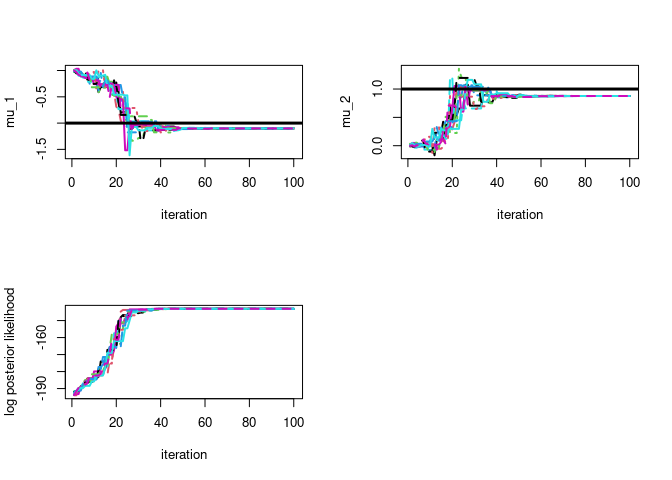
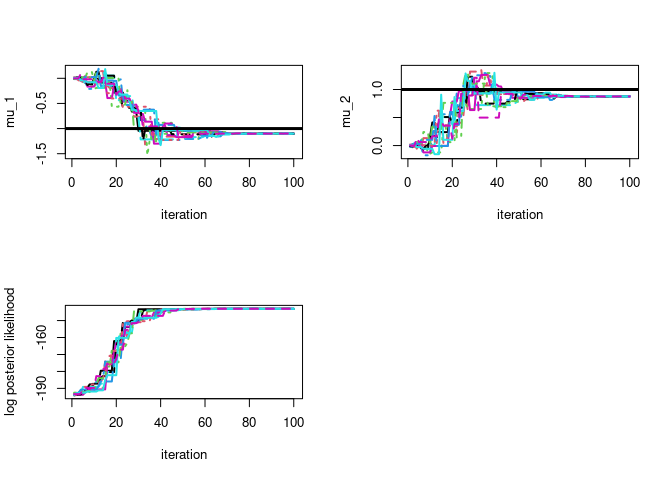
getting ready for CRAN submission

diff --git a/README.md b/README.md
@@ -63,7 +63,9 @@ post <- DEMCMC(LogPostLike=LogPostLikeExample,
                control_params=AlgoParamsDEMCMC(n_params=length(param_names_example),
                                                n_iter=500, 
                                                n_chains=12,
-                                               burnin=100),
+                                               burnin=100,
+                                            parallel_type = 'FORK',
+                                            n_cores_use = 4),
                data=dataExample,
                param_names = param_names_example)
 #> initalizing chains...
@@ -80,6 +82,7 @@ post <- DEMCMC(LogPostLike=LogPostLikeExample,
 #> 11 / 12
 #> 12 / 12
 #> chain initialization complete  :)
+#> initalizing FORK cluser with 4 cores
 #> running DEMCMC
 #> iter 100/500
 #> iter 200/500
@@ -114,32 +117,32 @@ abline(h=1,lwd=3)
 #### DEMCMC solution
 # posterior mean
 round(mean(post$samples[,,1]),3)
-#> [1] -1.092
-# posterior sd
+#> [1] -1.11
+# posterior var
 round(var(as.numeric(post$samples[,,1])),3)
-#> [1] 0.02
+#> [1] 0.022
 
 #### Analytic solution (conjugate posteriors)
 # posterior mean
 round(1/(1+50/1)*(sum(dataExample[,1])),3)
 #> [1] -1.101
-# posterior sd
+# posterior var
 round(1/(1+50/1),3)
 #> [1] 0.02
 
 #### mu_2
 # posterior mean  (conjugate posteriors)
 round(mean(post$samples[,,2]),3)
-#> [1] 0.871
-# posterior sd
+#> [1] 0.875
+# posterior var
 round(var(as.numeric(post$samples[,,2])),3)
-#> [1] 0.019
+#> [1] 0.02
 
 #### Analytic solution
 # posterior mean
 round(1/(1+50/1)*(sum(dataExample[,2])),3)
 #> [1] 0.876
-# posterior sd
+# posterior var
 round(1/(1+50/1),3)
 #> [1] 0.02
 ```
@@ -155,7 +158,10 @@ deviations using DE
 map <- DEMAP(LogPostLike=LogPostLikeExample,
              control_params=AlgoParamsDEMAP(n_params=length(param_names_example),
                                             n_iter=100, 
-                                            n_chains=12, return_trace = T),
+                                            n_chains=12, 
+                                            return_trace = T,
+                                            parallel_type = 'FORK',
+                                            n_cores_use = 4),
              data=dataExample,
              param_names = param_names_example)
 #> initalizing chains...
@@ -172,6 +178,7 @@ map <- DEMAP(LogPostLike=LogPostLikeExample,
 #> 11 / 12
 #> 12 / 12
 #> chain initialization complete  :)
+#> initalizing FORK cluser with 4 cores
 #> running DE to find MAP
 #> iter 100/100
 
@@ -234,7 +241,9 @@ vb <- DEVI(LogPostLike=LogPostLikeExample,
                                          use_QMC = F,
                                          n_samples_LRVB = 25,
                                          purify=10,
-                                         return_trace = T),
+                                         return_trace = T,
+                                            parallel_type = 'FORK',
+                                            n_cores_use = 4),
            data=dataExample,
            param_names = param_names_example)
 #> initalizing chains...
@@ -251,6 +260,7 @@ vb <- DEVI(LogPostLike=LogPostLikeExample,
 #> 11 / 12
 #> 12 / 12
 #> chain initialization complete  :)
+#> initalizing FORK cluser with 4 cores
 #> running DE to find best variational approximation
 #> iter 100/200
 #> iter 200/200
@@ -285,7 +295,7 @@ matplot(vb$ELBO_trace,type='l',ylab='ELBO',xlab="iteration",lwd=2)
 # posterior mean
 round(vb$means,3)
 #> param_1_mean param_2_mean 
-#>       -1.045        1.243
+#>        -0.97         0.92
 # posterior covariance
 round((vb$covariance),3)
 #>      [,1] [,2]

diff --git a/cran-comments.md b/cran-comments.md
@@ -1,0 +1,26 @@
+# Initial submission
+This is my first submission
+
+## R CMD check results
+### Platform:	Ubuntu Linux 20.04.1 LTS, R-release, GCC
+There were no ERRORs or WARNINGs. There was one note.
+  >Possibly misspelled words in DESCRIPTION:
+    >DEMAP (10:167)
+    name of a function
+    >DEMCMC (10:196)
+    name of a function
+    >variational (10:208)
+    variational inference is one of the methods in the package
+
+### Platform:	Fedora Linux, R-devel, clang, gfortran
+There were no ERRORs or WARNINGs. There was one note.
+Same as above
+
+### Platform:	Windows Server 2022, R-devel, 64 bit
+There were no ERRORs or WARNINGs. There was two note.
+Same as above + 
+> * checking for detritus in the temp directory ... NOTE
+Found the following files/directories:
+  'lastMiKTeXException'
+
+The second note might be due to a bug/crash in MiKTeX, as is noted in R-hub issue #503, which can be found at https://github.com/r-hub/rhub/issues/503.
